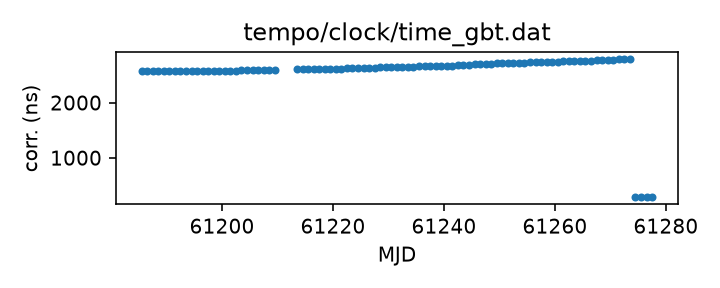
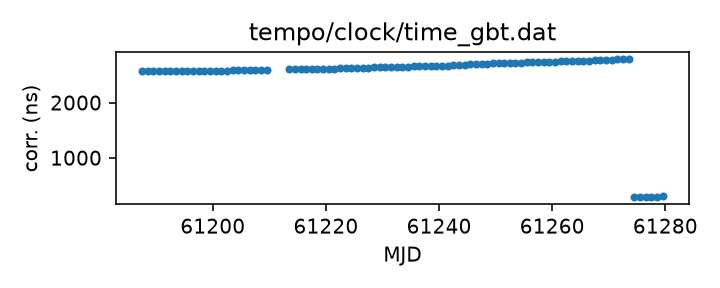
Routine gh-pages update from Github action Fri Aug 28 04:28:37 UTC 2026

diff --git a/status.md b/status.md
@@ -13,18 +13,18 @@ name of each clock file links to a page with more details.
 
 | Name | File | Corrections start | Corrections end | Last check date | Last check result 
 |:--- |:--- | --- | --- | --- |:--- 
-| [GPS to UTC](T2runtime/clock/gps2utc.clk.html) | `T2runtime/clock/gps2utc.clk` | 1993-01-01 MJD 48988.0 | 2026-07-28 MJD 61249.0 | 2026-08-26 | Unchanged 
-| [GPS to UTC (Combined Clock)](T2runtime/clock/gps2utc_cc.clk.html) | `T2runtime/clock/gps2utc_cc.clk` | 1993-01-01 MJD 48988.0 | 2026-07-28 MJD 61249.0 | 2026-08-26 | Unchanged 
-| [GPS to UTC (Corrected)](T2runtime/clock/gps2utc_c0p.clk.html) | `T2runtime/clock/gps2utc_c0p.clk` | 2010-12-29 MJD 55559.0 | 2026-07-28 MJD 61249.0 | 2026-08-26 | Unchanged 
-| [GBT](tempo/clock/time_gbt.dat.html) | `tempo/clock/time_gbt.dat` | 2000-12-31 MJD 51909.5 | 2026-08-25 MJD 61277.5 | 2026-08-26 | Updated 
-| [GBT (TEMPO2 converted from TEMPO)](T2runtime/clock/gbt2gps.clk.html) | `T2runtime/clock/gbt2gps.clk` | 2000-12-31 MJD 51909.5 | 2024-05-18 MJD 60448.5 | 2026-08-26 | **Validation failed** 
+| [GPS to UTC](T2runtime/clock/gps2utc.clk.html) | `T2runtime/clock/gps2utc.clk` | 1993-01-01 MJD 48988.0 | 2026-07-28 MJD 61249.0 | 2026-08-28 | Unchanged 
+| [GPS to UTC (Combined Clock)](T2runtime/clock/gps2utc_cc.clk.html) | `T2runtime/clock/gps2utc_cc.clk` | 1993-01-01 MJD 48988.0 | 2026-07-28 MJD 61249.0 | 2026-08-28 | Unchanged 
+| [GPS to UTC (Corrected)](T2runtime/clock/gps2utc_c0p.clk.html) | `T2runtime/clock/gps2utc_c0p.clk` | 2010-12-29 MJD 55559.0 | 2026-07-28 MJD 61249.0 | 2026-08-28 | Unchanged 
+| [GBT](tempo/clock/time_gbt.dat.html) | `tempo/clock/time_gbt.dat` | 2000-12-31 MJD 51909.5 | 2026-08-27 MJD 61279.5 | 2026-08-28 | Updated 
+| [GBT (TEMPO2 converted from TEMPO)](T2runtime/clock/gbt2gps.clk.html) | `T2runtime/clock/gbt2gps.clk` | 2000-12-31 MJD 51909.5 | 2024-05-18 MJD 60448.5 | 2026-08-28 | **Validation failed** 
 | [Jodrell Bank](T2runtime/clock/jb2gps.clk.html) | `T2runtime/clock/jb2gps.clk` | 2006-10-13 MJD 54021.4 | 2026-04-17 MJD 61147.0 | 2026-08-24 | Unchanged 
 | [Jodrell Bank Roach](T2runtime/clock/jbroach2jb.clk.html) | `T2runtime/clock/jbroach2jb.clk` | 2006-10-13 MJD 54021.4 | 2018-03-20 MJD 58197.6 | 2026-08-21 | Unchanged 
 | [Jodrell Bank DFB](T2runtime/clock/jbdfb2jb.clk.html) | `T2runtime/clock/jbdfb2jb.clk` | 2006-10-13 MJD 54021.4 | 2021-02-22 MJD 59268.0 | 2026-08-21 | Unchanged 
 | [Meerkat (observatory)](T2runtime/clock/mk2utc_observatory.clk.html) | `T2runtime/clock/mk2utc_observatory.clk` | 2019-01-01 MJD 58484.0 | 2026-04-10 MJD 61141.0 | 2026-08-21 | **Validation failed** 
-| [Leap seconds](tempo/clock/leap.sec.html) | `tempo/clock/leap.sec` | 1972-07-01 MJD 41499.0 | 2017-01-01 MJD 57754.0 | 2026-08-26 | Unchanged 
-| [UT1 table](tempo/clock/ut1.dat.html) | `tempo/clock/ut1.dat` | 1973-01-02 MJD 41684.0 | 2027-08-21 MJD 61638.0 | 2026-08-26 | Unchanged 
-| [UT1 table](T2runtime/clock/ut1.dat.html) | `T2runtime/clock/ut1.dat` | 1973-01-02 MJD 41684.0 | 2027-08-21 MJD 61638.0 | 2026-08-26 | Unchanged 
+| [Leap seconds](tempo/clock/leap.sec.html) | `tempo/clock/leap.sec` | 1972-07-01 MJD 41499.0 | 2017-01-01 MJD 57754.0 | 2026-08-28 | Unchanged 
+| [UT1 table](tempo/clock/ut1.dat.html) | `tempo/clock/ut1.dat` | 1973-01-02 MJD 41684.0 | 2027-08-21 MJD 61638.0 | 2026-08-28 | Unchanged 
+| [UT1 table](T2runtime/clock/ut1.dat.html) | `T2runtime/clock/ut1.dat` | 1973-01-02 MJD 41684.0 | 2027-08-21 MJD 61638.0 | 2026-08-28 | Unchanged 
 
 
 

diff --git a/T2runtime/clock/gbt2gps.clk.md b/T2runtime/clock/gbt2gps.clk.md
@@ -25,12 +25,11 @@ If questions arise about the conversion, contact Anne Archibald
 | Clock file start | 2000-12-31 MJD 51909.5 |
 | Clock file end | 2024-05-18 MJD 60448.5 |
 | Update interval (days) | 1 |
-| Last update attempt | 2026-08-26 |
+| Last update attempt | 2026-08-28 |
 | Last update result | Validation failed |
 
 Log entries from the last few update attempts:
 ```
-2026-08-17 20:52:02.728 - Validation failed: New version of T2runtime/clock/gbt2gps.clk MJDs differ from old version where they overlap in 8407 places
 2026-08-18 20:49:14.638 - Validation failed: New version of T2runtime/clock/gbt2gps.clk MJDs differ from old version where they overlap in 8407 places
 2026-08-19 20:53:23.107 - Validation failed: New version of T2runtime/clock/gbt2gps.clk MJDs differ from old version where they overlap in 8407 places
 2026-08-20 20:55:52.943 - Validation failed: New version of T2runtime/clock/gbt2gps.clk MJDs differ from old version where they overlap in 8407 places
@@ -40,6 +39,7 @@ Log entries from the last few update attempts:
 2026-08-24 20:57:45.689 - Validation failed: New version of T2runtime/clock/gbt2gps.clk MJDs differ from old version where they overlap in 8407 places
 2026-08-25 20:54:38.154 - Validation failed: New version of T2runtime/clock/gbt2gps.clk MJDs differ from old version where they overlap in 8407 places
 2026-08-26 23:51:09.668 - Validation failed: New version of T2runtime/clock/gbt2gps.clk MJDs differ from old version where they overlap in 8407 places
+2026-08-28 04:28:20.750 - Validation failed: New version of T2runtime/clock/gbt2gps.clk MJDs differ from old version where they overlap in 8407 places
 ```
 [Full log](https://raw.githubusercontent.com/ipta/pulsar-clock-corrections/main/log/T2runtime/clock/gbt2gps.clk.log)
 

diff --git a/tempo/clock/time_gbt.dat.md b/tempo/clock/time_gbt.dat.md
@@ -36,14 +36,13 @@ If questions arise, contact Ryan S. Lynch <rlynch@nrao.edu>.
 | Format | tempo |
 | Bogus last correction | False |
 | Clock file start | 2000-12-31 MJD 51909.5 |
-| Clock file end | 2026-08-25 MJD 61277.5 |
+| Clock file end | 2026-08-27 MJD 61279.5 |
 | Update interval (days) | 1 |
-| Last update attempt | 2026-08-26 |
+| Last update attempt | 2026-08-28 |
 | Last update result | Updated |
 
 Log entries from the last few update attempts:
 ```
-2026-08-17 20:52:02.642 - Updated
 2026-08-18 20:49:14.550 - Updated
 2026-08-19 20:53:23.056 - Updated
 2026-08-20 20:55:52.873 - Validation failed: New version of tempo/clock/time_gbt.dat clock corrections differ from old version where they overlap in 15 places
@@ -53,6 +52,7 @@ Log entries from the last few update attempts:
 2026-08-24 20:57:45.600 - Updated
 2026-08-25 20:54:38.081 - Updated
 2026-08-26 23:51:09.597 - Updated
+2026-08-28 04:28:20.677 - Updated
 ```
 [Full log](https://raw.githubusercontent.com/ipta/pulsar-clock-corrections/main/log/tempo/clock/time_gbt.dat.log)
 

diff --git a/T2runtime/clock/gps2utc_c0p.clk.md b/T2runtime/clock/gps2utc_c0p.clk.md
@@ -30,12 +30,11 @@ about the BIPM's published corrections, contact <tai@bipm.org>.
 | Clock file start | 2010-12-29 MJD 55559.0 |
 | Clock file end | 2026-07-28 MJD 61249.0 |
 | Update interval (days) | 1 |
-| Last update attempt | 2026-08-26 |
+| Last update attempt | 2026-08-28 |
 | Last update result | Unchanged |
 
 Log entries from the last few update attempts:
 ```
-2026-08-17 20:52:02.212 - Unchanged
 2026-08-18 20:49:13.800 - Unchanged
 2026-08-19 20:53:22.276 - Unchanged
 2026-08-20 20:55:51.780 - Unchanged
@@ -45,6 +44,7 @@ Log entries from the last few update attempts:
 2026-08-24 20:57:44.710 - Unchanged
 2026-08-25 20:54:37.730 - Unchanged
 2026-08-26 23:51:06.767 - Unchanged
+2026-08-28 04:28:19.900 - Unchanged
 ```
 [Full log](https://raw.githubusercontent.com/ipta/pulsar-clock-corrections/main/log/T2runtime/clock/gps2utc_c0p.clk.log)
 

diff --git a/T2runtime/clock/gps2utc_cc.clk.md b/T2runtime/clock/gps2utc_cc.clk.md
@@ -29,12 +29,11 @@ about the BIPM's published corrections, contact <tai@bipm.org>.
 | Clock file start | 1993-01-01 MJD 48988.0 |
 | Clock file end | 2026-07-28 MJD 61249.0 |
 | Update interval (days) | 1 |
-| Last update attempt | 2026-08-26 |
+| Last update attempt | 2026-08-28 |
 | Last update result | Unchanged |
 
 Log entries from the last few update attempts:
 ```
-2026-08-17 20:52:02.204 - Unchanged
 2026-08-18 20:49:13.792 - Unchanged
 2026-08-19 20:53:22.271 - Unchanged
 2026-08-20 20:55:51.772 - Unchanged
@@ -44,6 +43,7 @@ Log entries from the last few update attempts:
 2026-08-24 20:57:44.702 - Unchanged
 2026-08-25 20:54:37.722 - Unchanged
 2026-08-26 23:51:06.759 - Unchanged
+2026-08-28 04:28:19.892 - Unchanged
 ```
 [Full log](https://raw.githubusercontent.com/ipta/pulsar-clock-corrections/main/log/T2runtime/clock/gps2utc_cc.clk.log)
 

diff --git a/T2runtime/clock/gps2utc.clk.md b/T2runtime/clock/gps2utc.clk.md
@@ -32,12 +32,11 @@ about the BIPM's published corrections, contact <tai@bipm.org>.
 | Clock file start | 1993-01-01 MJD 48988.0 |
 | Clock file end | 2026-07-28 MJD 61249.0 |
 | Update interval (days) | 1 |
-| Last update attempt | 2026-08-26 |
+| Last update attempt | 2026-08-28 |
 | Last update result | Unchanged |
 
 Log entries from the last few update attempts:
 ```
-2026-08-17 20:52:02.181 - Unchanged
 2026-08-18 20:49:13.768 - Unchanged
 2026-08-19 20:53:22.256 - Unchanged
 2026-08-20 20:55:51.749 - Unchanged
@@ -47,6 +46,7 @@ Log entries from the last few update attempts:
 2026-08-24 20:57:44.678 - Unchanged
 2026-08-25 20:54:37.699 - Unchanged
 2026-08-26 23:51:06.737 - Unchanged
+2026-08-28 04:28:19.870 - Unchanged
 ```
 [Full log](https://raw.githubusercontent.com/ipta/pulsar-clock-corrections/main/log/T2runtime/clock/gps2utc.clk.log)
 

diff --git a/T2runtime/clock/ut1.dat.md b/T2runtime/clock/ut1.dat.md
@@ -30,12 +30,11 @@ If there are any questions, contact Anne Archibald
 | File start | 1973-01-02 MJD 41684.0 |
 | File end | 2027-08-21 MJD 61638.0 |
 | Update interval (days) | 0 |
-| Last update attempt | 2026-08-26 |
+| Last update attempt | 2026-08-28 |
 | Last update result | Unchanged |
 
 Log entries from the last few update attempts:
 ```
-2026-08-17 20:52:04.006 - Unchanged
 2026-08-18 20:49:15.271 - Updated
 2026-08-19 20:53:23.479 - Unchanged
 2026-08-20 20:55:53.570 - Unchanged
@@ -45,5 +44,6 @@ Log entries from the last few update attempts:
 2026-08-24 20:57:47.390 - Unchanged
 2026-08-25 20:54:38.726 - Unchanged
 2026-08-26 23:51:10.254 - Unchanged
+2026-08-28 04:28:21.358 - Unchanged
 ```
 [Full log](https://raw.githubusercontent.com/ipta/pulsar-clock-corrections/main/log/T2runtime/clock/ut1.dat.log)

diff --git a/tempo/clock/leap.sec.md b/tempo/clock/leap.sec.md
@@ -21,12 +21,11 @@ If there are any questions, contact Anne Archibald
 | File start | 1972-07-01 MJD 41499.0 |
 | File end | 2017-01-01 MJD 57754.0 |
 | Update interval (days) | 0 |
-| Last update attempt | 2026-08-26 |
+| Last update attempt | 2026-08-28 |
 | Last update result | Unchanged |
 
 Log entries from the last few update attempts:
 ```
-2026-08-17 20:52:03.440 - Unchanged
 2026-08-18 20:49:14.664 - Unchanged
 2026-08-19 20:53:23.121 - Unchanged
 2026-08-20 20:55:52.970 - Unchanged
@@ -36,5 +35,6 @@ Log entries from the last few update attempts:
 2026-08-24 20:57:46.827 - Unchanged
 2026-08-25 20:54:38.175 - Unchanged
 2026-08-26 23:51:09.689 - Unchanged
+2026-08-28 04:28:20.772 - Unchanged
 ```
 [Full log](https://raw.githubusercontent.com/ipta/pulsar-clock-corrections/main/log/tempo/clock/leap.sec.log)

diff --git a/tempo/clock/ut1.dat.md b/tempo/clock/ut1.dat.md
@@ -30,12 +30,11 @@ If there are any questions, contact Anne Archibald
 | File start | 1973-01-02 MJD 41684.0 |
 | File end | 2027-08-21 MJD 61638.0 |
 | Update interval (days) | 0 |
-| Last update attempt | 2026-08-26 |
+| Last update attempt | 2026-08-28 |
 | Last update result | Unchanged |
 
 Log entries from the last few update attempts:
 ```
-2026-08-17 20:52:03.958 - Unchanged
 2026-08-18 20:49:15.222 - Updated
 2026-08-19 20:53:23.451 - Unchanged
 2026-08-20 20:55:53.520 - Unchanged
@@ -45,5 +44,6 @@ Log entries from the last few update attempts:
 2026-08-24 20:57:47.341 - Unchanged
 2026-08-25 20:54:38.684 - Unchanged
 2026-08-26 23:51:10.212 - Unchanged
+2026-08-28 04:28:21.316 - Unchanged
 ```
 [Full log](https://raw.githubusercontent.com/ipta/pulsar-clock-corrections/main/log/tempo/clock/ut1.dat.log)
